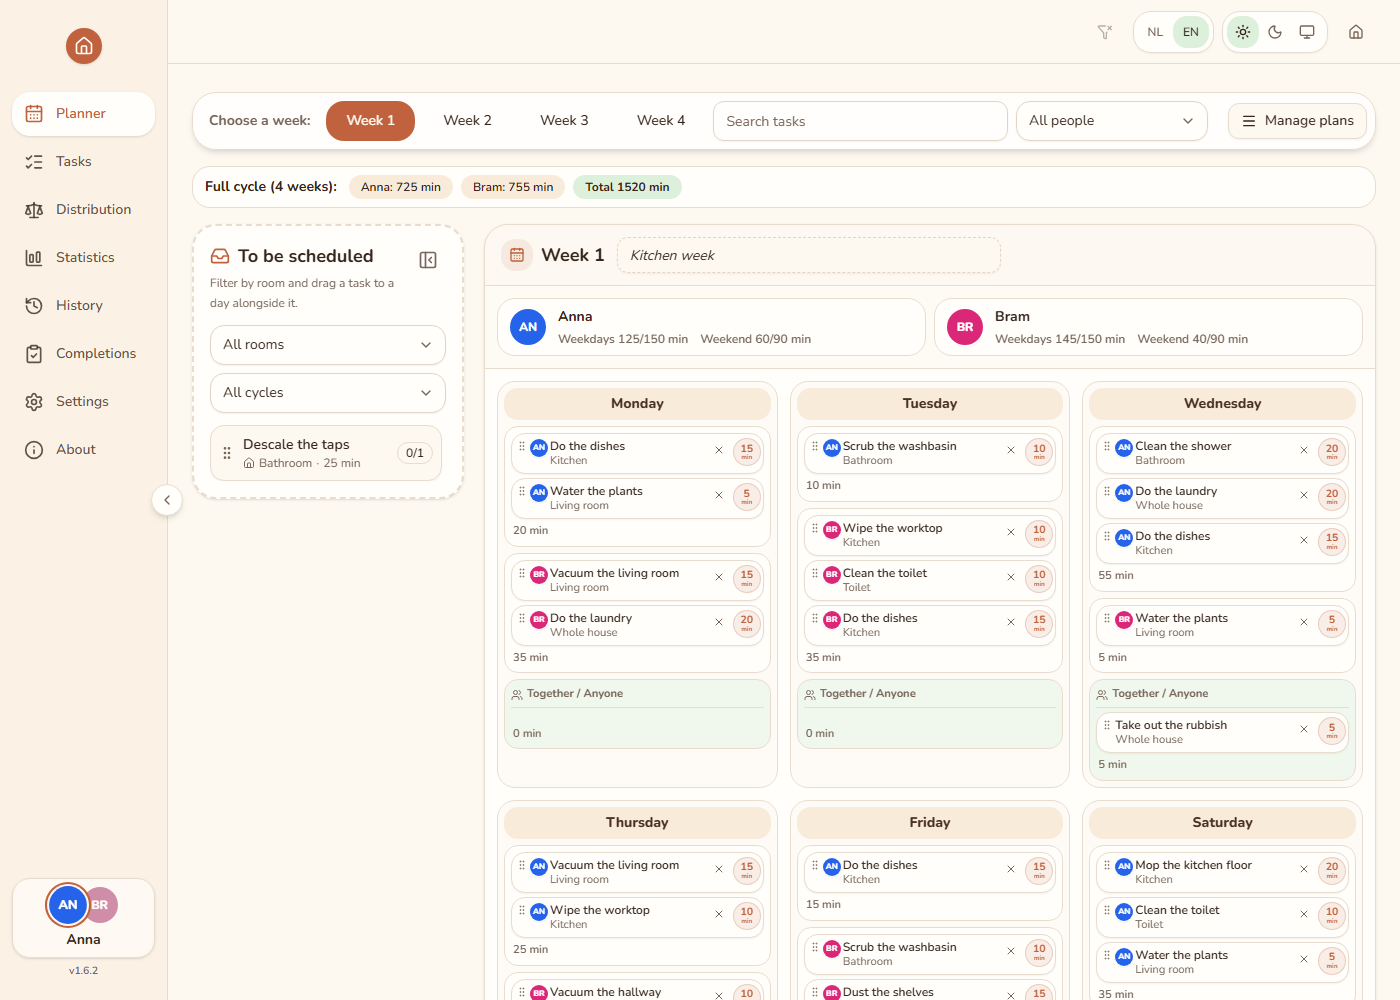
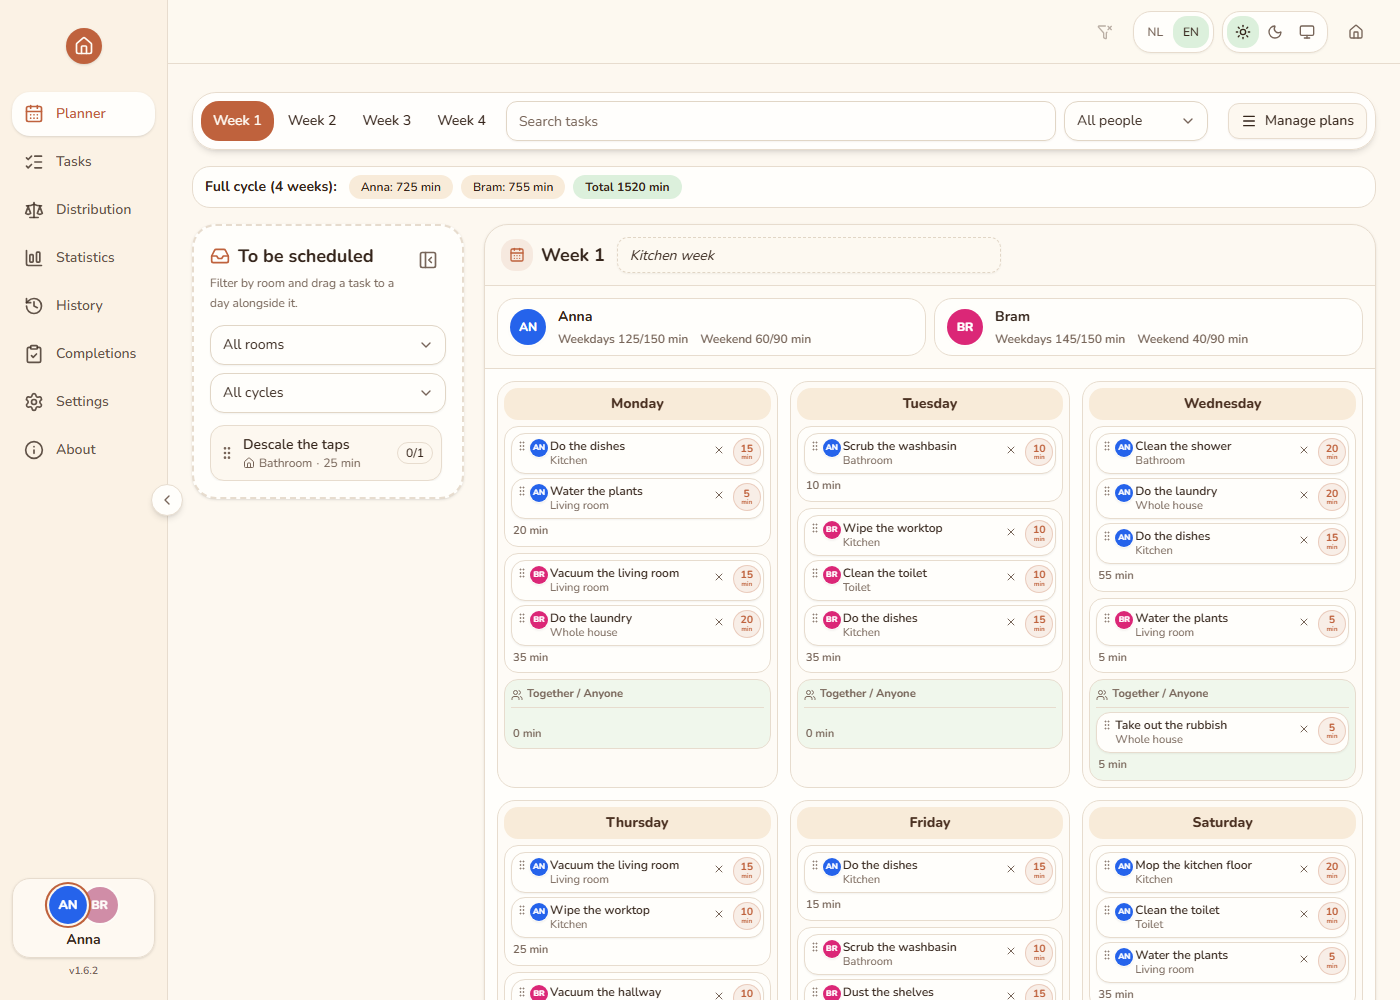
fix(web): keep the planner toolbar on one line and reset history from the header (#70)
## Samenvatting

Feedback van de opdrachtgever na #69:

- **Planner-werkbalk op één regel:** het zichtbare label "Week kiezen:"
is weg (blijft als toegankelijke groepsnaam), de weekknoppen staan
dichter op elkaar, het zoekveld mag smaller en de personenkeuze is
smaller (w-36), zodat **Plannen beheren** niet meer naar een tweede
regel springt.
- **Geschiedenis:** de knop "Filters wissen" in de filterbalk is
verwijderd; het reset-icoon in de kopbalk reset nu ook de filters van
Geschiedenis. De lege kolom is uit het filterraster gehaald.
- Requirements en screenshots bijgewerkt.

## Controle

- `npm run verify`: lint, typecheck en 630/630 tests geslaagd.
- `npm run test:e2e -- planner.spec.ts planner-overviews.spec.ts`: 2/2.

🤖 Generated with [Claude Code](https://claude.com/claude-code)

Changed region(s): [[0.1229, 0.093, 0.43, 0.155], [0.7371, 0.093, 0.7986, 0.124], [0.4607, 0.093, 0.4914, 0.124]]

diff --git a/apps/web/src/features/planner/PlanEditor.tsx b/apps/web/src/features/planner/PlanEditor.tsx
@@ -241,26 +241,25 @@ export function PlanEditor({
           role="group"
           aria-label={t('planner.chooseWeek')}
         >
-          <span className="px-2 text-sm font-bold text-muted-foreground">
-            {t('planner.chooseWeek')}:
-          </span>
-          {[0, 1, 2, 3].map((weekIndex) => (
-            <Button
-              key={weekIndex}
-              type="button"
-              variant={selectedWeek === weekIndex ? 'default' : 'ghost'}
-              className="h-10 rounded-xl px-5"
-              aria-pressed={selectedWeek === weekIndex}
-              onClick={() => setSelectedWeek(weekIndex)}
-            >
-              {format('planner.week', { n: weekIndex + 1 })}
-            </Button>
-          ))}
-          <label className="min-w-40 flex-1">
+          <div className="flex gap-0.5">
+            {[0, 1, 2, 3].map((weekIndex) => (
+              <Button
+                key={weekIndex}
+                type="button"
+                variant={selectedWeek === weekIndex ? 'default' : 'ghost'}
+                className="h-10 rounded-xl px-3"
+                aria-pressed={selectedWeek === weekIndex}
+                onClick={() => setSelectedWeek(weekIndex)}
+              >
+                {format('planner.week', { n: weekIndex + 1 })}
+              </Button>
+            ))}
+          </div>
+          <label className="min-w-32 flex-1">
             <span className="visually-hidden">{t('planner.searchTasks')}</span>
             <Input
               type="search"
-              className="h-10 min-w-40"
+              className="h-10 min-w-32"
               value={searchTerm}
               placeholder={t('planner.searchTasks')}
               aria-label={t('planner.searchTasks')}
@@ -268,7 +267,7 @@ export function PlanEditor({
             />
           </label>
           <NativeSelect
-            className="w-48"
+            className="w-36"
             aria-label={t('planner.filterAssignee')}
             value={assigneeFilter}
             onChange={(event) => setAssigneeFilter(event.target.value)}

diff --git a/apps/web/src/features/history/HistoryPage.tsx b/apps/web/src/features/history/HistoryPage.tsx
@@ -2,6 +2,7 @@ import type { AuditEntity, AuditEntry } from '@huishoudplanner/shared';
 import { ArrowLeft, Bot, Clock, Filter, History, Sparkles, Trash2, UserRound } from 'lucide-react';
 import { useEffect, useId, useMemo, useRef, useState } from 'react';
 import { Link, useSearchParams } from 'react-router';
+import { useFilterReset } from '@/components/FilterReset';
 import { EmptyState } from '@/components/EmptyState';
 import { NativeSelect } from '@/components/NativeSelect';
 import { PageHeader } from '@/components/PageHeader';
@@ -43,6 +44,7 @@ function dayEndIso(day: string): string {
 export function HistoryPage() {
   const idPrefix = useId();
   const [params, setParams] = useSearchParams();
+  useFilterReset(() => setParams(new URLSearchParams(), { replace: true }), params.toString() !== '');
   const entity = (params.get('entity') ?? '') as AuditEntity | '';
   const entityId = params.get('entityId') ?? '';
   const actorId = params.get('actorId') ?? '';
@@ -198,7 +200,7 @@ export function HistoryPage() {
 
       {!panelMode && (
         <div
-          className="mb-6 grid items-end gap-4 rounded-2xl border bg-card p-5 shadow-sm sm:grid-cols-2 lg:grid-cols-[auto_1fr_1fr_1fr_1fr_auto]"
+          className="mb-6 grid items-end gap-4 rounded-2xl border bg-card p-5 shadow-sm sm:grid-cols-2 lg:grid-cols-[auto_1fr_1fr_1fr_1fr]"
           role="search"
         >
           <div className="hidden size-10 place-items-center rounded-xl bg-accent text-accent-foreground lg:grid">
@@ -247,9 +249,6 @@ export function HistoryPage() {
               onChange={(e) => setFilter('to', e.target.value)}
             />
           </div>
-          <Button type="button" variant="ghost" onClick={() => setParams(new URLSearchParams(), { replace: true })}>
-            {t('history.filter.reset')}
-          </Button>
         </div>
       )}
 

diff --git a/apps/web/src/features/history/HistoryPage.test.tsx b/apps/web/src/features/history/HistoryPage.test.tsx
@@ -70,7 +70,7 @@ describe('HistoryPage', () => {
 
   it('filters by actor, entity type and date range', async () => {
     const fetchMock = setup(() => ({ items: PAGE_1, nextCursor: null }));
-    renderWithProviders(<HistoryPage />, { route: '/manage/history' });
+    renderWithProviders(<HistoryPage />, { route: '/manage/history', headerReset: true });
     await screen.findAllByRole('listitem');
 
     fireEvent.change(screen.getByLabelText('Wie'), { target: { value: BRAM._id } });
@@ -89,7 +89,7 @@ describe('HistoryPage', () => {
 
     expect(screen.getByLabelText('Wie')).toHaveDisplayValue('Bram de Vries');
     expect(within(screen.getByLabelText('Wie')).getByRole('option', { name: 'Systeem' })).toHaveValue(SYSTEM_ACTOR_ID);
-    fireEvent.click(screen.getByRole('button', { name: 'Filters wissen' }));
+    fireEvent.click(screen.getByRole('button', { name: 'Filters van dit scherm resetten' }));
     await waitFor(() => expect(auditUrls(fetchMock).at(-1)).toBe('/api/audit?limit=50'));
     expect(screen.getByLabelText('Wie')).toHaveValue('');
   });

diff --git a/apps/web/src/i18n/nl.ts b/apps/web/src/i18n/nl.ts
@@ -794,7 +794,6 @@ export const nl = {
   'settings.data.resetError': 'De uitvoeringsgegevens konden niet worden gereset.',
 
   'stats.filters': 'Filters',
-  'history.filter.reset': 'Filters wissen',
   'stats.tabs': 'Statistiekonderdeel',
   'stats.overview': 'Overzicht',
   'stats.tab.overview': 'Overzicht',

diff --git a/apps/web/src/i18n/en.ts b/apps/web/src/i18n/en.ts
@@ -762,7 +762,6 @@ export const en = {
   "language.label": "Language",
   "language.nl": "Dutch",
   "language.en": "English",
-  "history.filter.reset": "Clear filters",
   "mobileTasks.block": "{from} through {to}",
   "planner.searchTasks": "Search tasks",
   "planner.cycleTotal": "Full cycle total",

diff --git a/docs/huishoudplanner-requirements.md b/docs/huishoudplanner-requirements.md
@@ -200,7 +200,7 @@ dismissedPromotions: [ ... ]
 - A week overview is the default landing view at every screen width, shows the whole week with drag-to-reschedule, and can collapse past days.
 - The week overview can search by part of a task name and optionally show the cycle-week number on its cards.
 - My tasks groups its sliding 1-, 2-, or 4-week period into seven-day blocks starting today. Each block shows its date range; each task shows its own cycle-week number even when a block crosses a cycle boundary.
-- Filter choices throughout the app survive a hard reload. A single icon button in the top header, directly left of the language switch, resets the filters of the screen the person is on (today, week, my tasks, planner, tasks, statistics and completions) to their defaults and leaves the saved filters of every other screen untouched. It is disabled when the current screen has no filters or all of them are at their defaults, it has an accessible name and tooltip, and it announces the reset to assistive technology. One household member's saved choices are not silently applied to another member.
+- Filter choices throughout the app survive a hard reload. A single icon button in the top header, directly left of the language switch, resets the filters of the screen the person is on (today, week, my tasks, planner, tasks, statistics, completions and history) to their defaults and leaves the saved filters of every other screen untouched. It is disabled when the current screen has no filters or all of them are at their defaults, it has an accessible name and tooltip, and it announces the reset to assistive technology. One household member's saved choices are not silently applied to another member.
 - "Done just now" creates an ad-hoc occurrence for a task that was not planned today. At most one ad-hoc occurrence per task per day, and only within a cycle that has been generated.
 
 ### 4.5 Due engine
